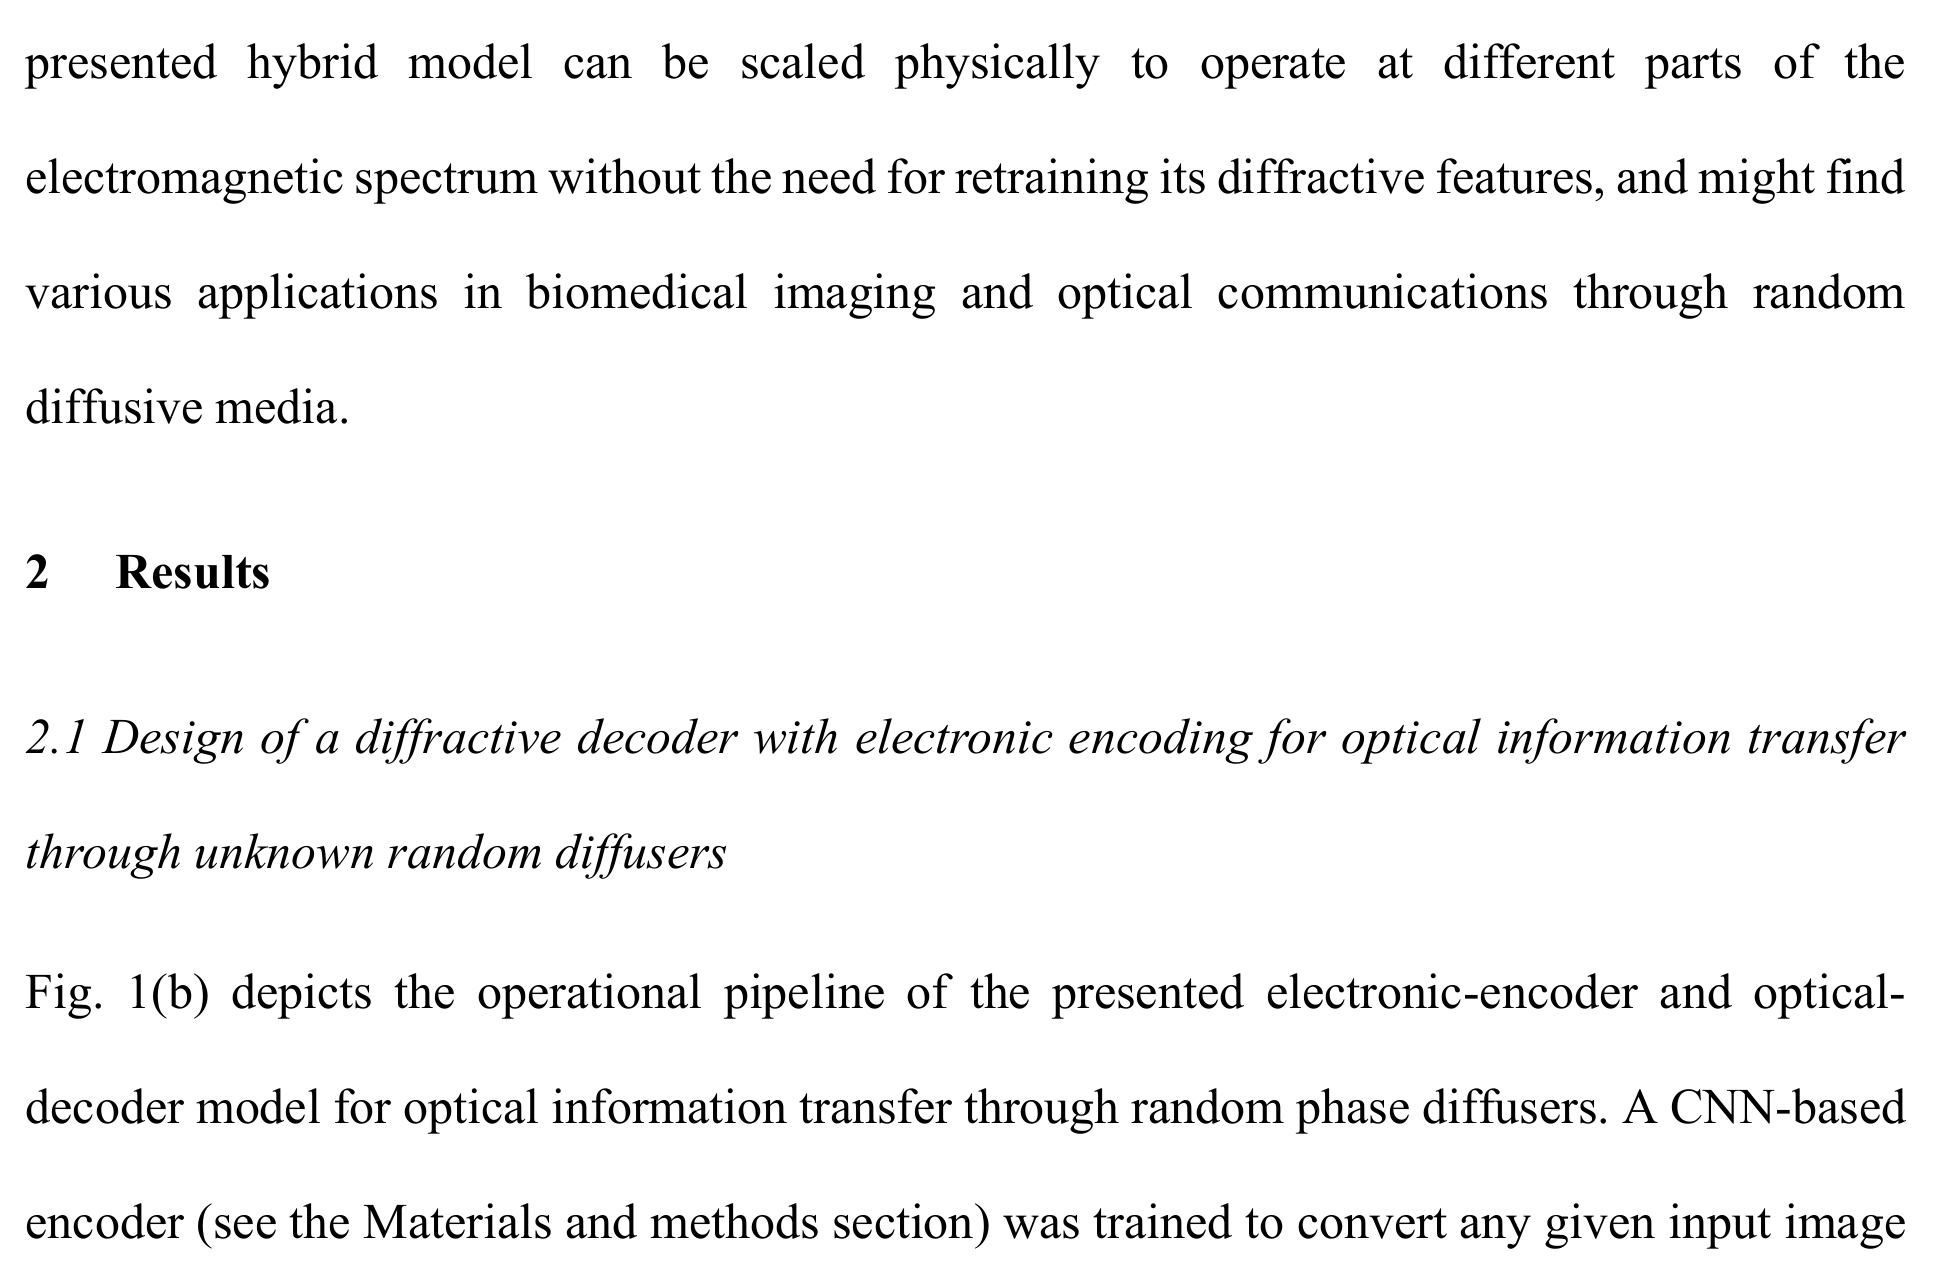
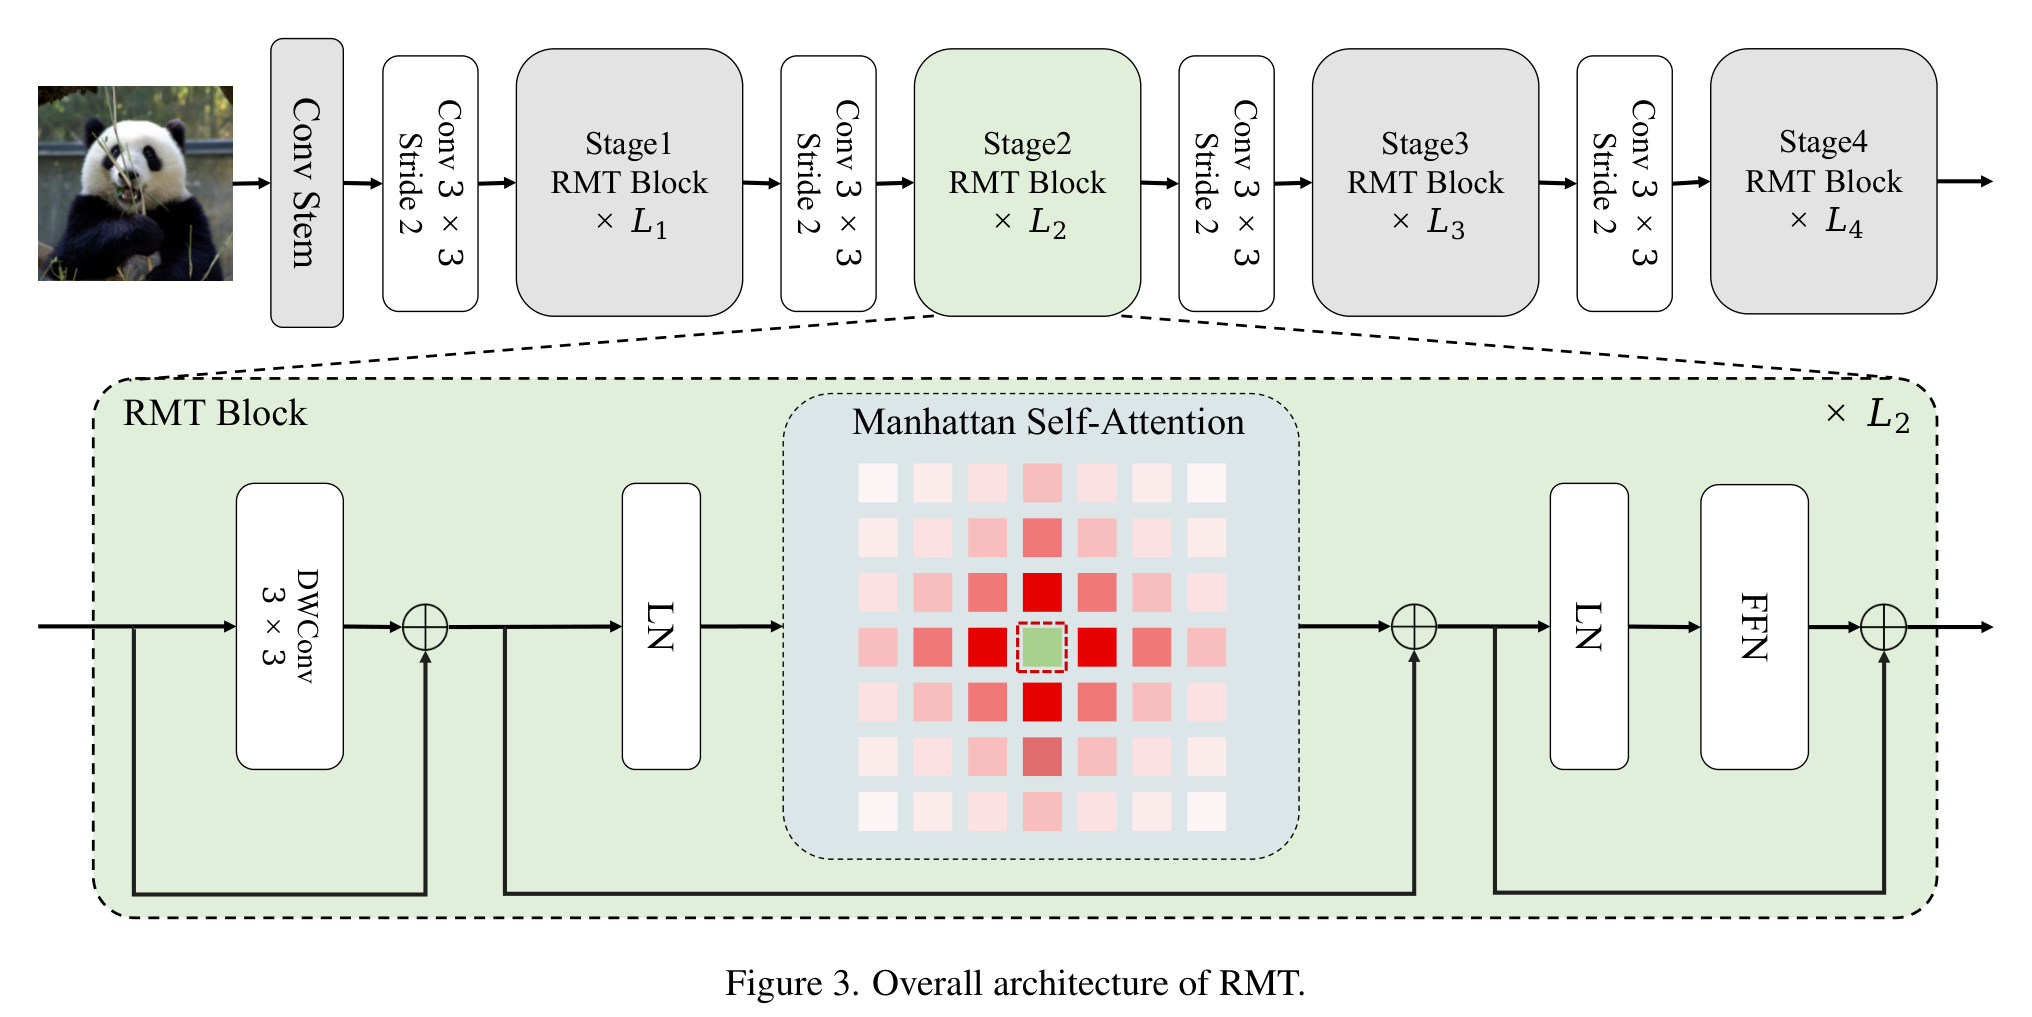
fix(figures): 004-starnet/006-rmt 架构图重抽（去正文/表格污染，列感知裁剪）
- 006-rmt: 队列 id 错(2303.17164 实为无关论文) → 正片 2309.11523 的 Figure 3；修正 venue=CVPR2024、readme/meta
- 004-starnet: Figure 3 重抽，去除右侧 Table 5 + 正文污染
- extract_fig.py: 增加分栏过滤（避免双栏论文把邻栏正文截进图里）

diff --git a/006-rmt/readme.md b/006-rmt/readme.md
@@ -1,127 +1,127 @@
 ## 一、论文出处
 
-- 论文全名：*Retentive Network: A Successor to Transformer for Large Language Models*（RMT 即 Retentive Network 的保留机制，本文讲解其可插拔的保留注意力子模块）
-- 会议/年份：arXiv 2023（CVPR 2023 收录的相关工作，本模块以 arXiv 2303.17164 为准）
-- 论文链接：https://arxiv.org/abs/2303.17164
+- 论文全名：*RMT: Retentive Networks Meet Vision Transformers*
+- 会议/年份：CVPR 2024
+- 论文链接：https://arxiv.org/abs/2309.11523
 - 官方代码：https://github.com/qhfan/RMT
 
-> 说明：RMT 的完整框架是面向序列建模的保留网络，但本合集只取其中可单独塞进 U-Net 的**保留注意力块（Retention Block）**来讲——它是一个带显式衰减的线性注意力子模块，能替换掉标准自注意力里的 softmax 注意力。
+> 说明：RMT 把 NLP 里 Retentive Network（RetNet）的「显式衰减」思想搬进视觉骨干，提出 **Manhattan Self-Attention（MaSA，曼哈顿自注意力）**——用与曼哈顿距离挂钩的二维空间衰减矩阵，给 ViT 补上一个显式的空间先验。本合集只取其中可插拔的 **RMT Block / MaSA** 来讲。
 
-## 二、模块图（截自论文原文）
+## 二、模块图（截自论文原文 Figure 3）
 
 ![RMT 结构图](figure.png)
 
-图注：保留注意力用「位置相关的指数衰减」替代 softmax 归一化，让每个 token 对历史信息的权重随距离单调衰减，从而在 O(N) 复杂度下保留长程记忆。
+图注：RMT 整体四阶段架构（上）；下为 RMT Block 展开——`DWConv 3×3 → LN → Manhattan Self-Attention → LN → FFN`，两条残差。MaSA 用一个按曼哈顿距离衰减的矩阵 `D` 调制注意力权重，让空间先验「显式」地进入模型。
 
 ## 三、核心思想与作用
 
-一句话总括：**保留注意力把 softmax 注意力换成「带显式衰减权重的线性注意力」，用可学习或固定的衰减系数给远距离 token 降权，既保住长程依赖，又把复杂度从 O(N²) 压到 O(N)。**
+一句话总括：**MaSA 在标准自注意力 `Softmax(QKᵀ)V` 外面乘上一个按「曼哈顿距离」指数衰减的矩阵 `D`，让离得近的 token 权重大、离得远的 token 权重指数级变小，从而给模型一个显式的二维空间先验——注意力算的还是全局的，但先验告诉它「谁更重要」。**
 
 拆解成几步：
 
-1. **去掉 softmax，改成线性形式**。标准注意力是 `softmax(QKᵀ)V`，必须先算 N×N 的注意力矩阵。保留注意力把它写成 `(QKᵀ ⊙ D)V`，其中 D 是一个只和相对位置有关的衰减矩阵，于是可以先用结合律算 `KᵀV`，再乘 Q，复杂度降到线性。
-2. **引入显式衰减 D**。D 的元素是 `γ^(i-j)`（i≥j），γ 是衰减因子（0<γ<1）。距离越远，权重越小，相当于给模型一个「记忆会随时间淡忘」的先验。
-3. **多头 + 分组归一化**。每个头有独立的 γ，输出前做一次 GroupNorm 稳定训练，避免线性注意力常见的数值漂移。
-4. **可插拔**。整个块只依赖输入张量，不依赖序列长度以外的假设，所以能直接替换 U-Net 里的自注意力或注意力门控。
+1. **从 RetNet 的「衰减」出发**。RetNet 在语言模型里用 `D_nm = γ^(n-m)`（n≥m，因果、一维）给历史 token 降权，带来显式的时序先验。RMT 把这个思想迁移到视觉。
+2. **从一维到二维：曼哈顿距离**。图像里每个 token 有 (x, y) 坐标，RMT 把衰减改成按 **曼哈顿距离** 计算：`D_nm = γ^(|xₙ-xₘ| + |yₙ-yₘ|)`。距离越远，衰减越狠，且横竖两个方向分别累积——这就是「Manhattan」的由来。
+3. **注意力公式**：`MaSA(X) = (Softmax(QKᵀ) ⊙ D) · V`。注意一个反直觉的点：RMT 试验后发现**去掉 RetNet 的门控（gating）、保留 Softmax** 反而在视觉上更好——所以 MaSA 并没有像很多线性注意力那样把 softmax 干掉，而是「Softmax 注意力 × 空间衰减」。
+4. **可分解（Decomposed MaSA）**。前三个阶段用分解版：把注意力得分与衰减矩阵沿横、纵两个轴分别拆开算（`Attn_H`、`Attn_W`），再接 `DWConv` 的局部上下文增强（LCE），在保留显式空间先验的同时把早期阶段的开销压下来；最后一个阶段用原始 MaSA。整个 Block 就是「DWConv → LN → MaSA → LN → FFN」。
 
 为什么好：
 
-- **线性复杂度**：医学图像里特征图展平后 token 数很大（如 64×64=4096），O(N²) 注意力显存吃不消，保留注意力能扛住。
-- **显式长程建模**：衰减是「软」的，不是硬截断，远处信息仍以较小权重参与，比局部窗口注意力更接近全局感受野。
-- **训练稳定**：GroupNorm + 固定/可学习 γ，比纯线性注意力好训，不容易梯度爆炸。
+- **显式空间先验**。普通 ViT 的自注意力天生没有任何空间归纳偏置，RMT 用衰减矩阵把「距离近的更相关」直接写进注意力，比纯数据学出来的位置关系更稳。
+- **保留 Softmax 的非线性**。不像线性注意力为了省算力丢掉 softmax，MaSA 保留 softmax，实验上精度更好。
+- **全局感受野 + 局部增强**。曼哈顿衰减负责长程的「软」加权，DWConv(LCE) 补局部纹理，粗细结合。
+- **即插即用**。Block 只依赖特征张量，可整块替换进现有 ViT / U-Net 的注意力位置。
 
 ## 四、在 U-Net 里的插入位置
 
-推荐放在**瓶颈层（bottleneck）**，其次可放在**解码器的高层**。
+推荐放在**瓶颈层（bottleneck）**，其次可放在**解码器的高层（低分辨率层）**。
 
 理由：
 
-- 瓶颈层特征图空间尺寸最小、通道数最多，展平后 token 数适中，保留注意力的线性优势最明显，且这里最需要全局上下文来补足卷积的局部性。
-- 解码器高层（靠近输出、分辨率较低的那几层）同样适合，能帮模型在恢复空间细节前先整合全局信息。
-- 不建议放在编码器浅层：那里分辨率高、token 多，线性注意力虽然省显存，但浅层更依赖局部纹理，全局衰减收益有限，反而增加计算。
+- 瓶颈层特征图最小、通道最多，全局建模需求最强，而这里正是把「显式空间先验」发挥出来的地方——医学图像里器官/病灶的空间关系是先验知识，用曼哈顿衰减天然贴合。
+- 解码器低分辨率层同样适合，能在恢复空间细节前先整合全局上下文。
+- 不建议放在编码器浅层：那里分辨率高、token 多，自注意力本身开销大（分解版可缓解），且浅层更依赖局部纹理。
 
 一句话：**瓶颈层放一个，解码器低分辨率层可选放，编码器浅层别放。**
 
 ## 五、复现代码（PyTorch，逐行中文注释）
 
-> 说明：以下是**简化教学版**，只保留保留注意力最核心的「衰减矩阵 + 线性注意力」两个组件，去掉了官方实现里的多头分组、跨头归一化等工程细节，方便理解结构。
+> 说明：以下是**简化教学版**，只保留 MaSA 最核心的「曼哈顿衰减矩阵 + 空间调制」两个组件，去掉了官方实现里的多头分组、分轴向分解、DWConv(LCE) 等工程细节，方便理解结构。
 
 ```python
 import torch
 import torch.nn as nn
-import torch.nn.functional as F
 
-class SimpleRetention(nn.Module):
-    """简化版保留注意力：带显式指数衰减的线性注意力"""
+class ManhattanSelfAttention(nn.Module):
+    """简化版曼哈顿自注意力：标准 softmax 注意力 × 曼哈顿距离衰减矩阵"""
     def __init__(self, dim, num_heads=4, gamma=0.9):
         super().__init__()
         self.dim = dim                      # 输入特征维度
         self.num_heads = num_heads          # 头数
-        self.head_dim = dim // num_heads    # 每个头的维度
-        self.gamma = gamma                  # 衰减因子，越接近 1 记忆越长
-        # Q、K、V 的线性投影
-        self.q_proj = nn.Linear(dim, dim)
-        self.k_proj = nn.Linear(dim, dim)
-        self.v_proj = nn.Linear(dim, dim)
+        self.head_dim = dim // num_heads    # 每头维度
+        self.gamma = gamma                  # 衰减因子，越接近 1 空间衰减越慢
+        self.q_proj = nn.Linear(dim, dim)   # Q 投影
+        self.k_proj = nn.Linear(dim, dim)   # K 投影
+        self.v_proj = nn.Linear(dim, dim)   # V 投影
         self.out_proj = nn.Linear(dim, dim) # 输出投影
-        self.norm = nn.GroupNorm(1, dim)    # 输出归一化，稳定训练
+        self.scale = self.head_dim ** -0.5  # softmax 缩放
 
-    def forward(self, x):
-        # x: (B, N, C)，N 是 token 数（如 H*W），C 是通道数
+    def forward(self, x, hw=None):
+        # x: (B, N, C)，N = H*W；hw=(H, W) 用于计算 token 的 (x, y) 坐标
         B, N, C = x.shape
         H = self.num_heads
         D = self.head_dim
-        # 投影并拆成多头: (B, H, N, D)
+        if hw is None:
+            Hh = int(N ** 0.5); hw = (Hh, Hh)
+        h, w = hw
+        assert h * w == N, 'token 数需等于 H*W'
+
+        # 多头投影: (B, H, N, D)
         q = self.q_proj(x).view(B, N, H, D).transpose(1, 2)
         k = self.k_proj(x).view(B, N, H, D).transpose(1, 2)
         v = self.v_proj(x).view(B, N, H, D).transpose(1, 2)
 
-        # 构造衰减矩阵 D_mat: (N, N)，D_mat[i, j] = gamma^(i-j) if i>=j else 0
-        idx = torch.arange(N, device=x.device)
-        # 相对距离 i-j，下三角为正
-        rel = idx[:, None] - idx[None, :]          # (N, N)
-        decay = torch.where(rel >= 0,
-                            self.gamma ** rel.clamp(min=0).float(),
-                            torch.zeros_like(rel, dtype=torch.float))
-        decay = decay.to(x.dtype)                  # (N, N)
+        # 标准自注意力得分: (B, H, N, N)
+        attn = (q @ k.transpose(-2, -1)) * self.scale
+        attn = attn.softmax(dim=-1)
 
-        # 线性注意力核心：先算 K^T V，再乘 Q，避免 N×N 的 QK^T
-        # 但为了显式衰减，这里用衰减加权的 K^T V 形式
-        # 简化写法：直接对 K 做衰减加权后再算注意力
-        # 权重 w[i,j] = decay[i,j]，对 j 做归一化
-        w = decay / (decay.sum(dim=-1, keepdim=True) + 1e-6)  # (N, N)
-        # 注意力输出: (B, H, N, D) = w @ v
-        out = torch.einsum('ij,bhjd->bhid', w, v)  # (B, H, N, D)
+        # 构造曼哈顿距离衰减矩阵 D_nm = gamma^(|xn-xm| + |yn-ym|)
+        ys = torch.arange(h, device=x.device).repeat_interleave(w)  # (N,)
+        xs = torch.arange(w, device=x.device).repeat(h)             # (N,)
+        dist = (ys[:, None] - ys[None, :]).abs() + (xs[:, None] - xs[None, :]).abs()  # (N, N)
+        decay = (self.gamma ** dist.float()).to(x.dtype)            # (N, N)
 
-        # 合并多头并投影
+        # 用空间衰减调制注意力权重，再做归一化
+        attn = attn * decay                      # (B, H, N, N) * (N, N)
+        attn = attn / (attn.sum(dim=-1, keepdim=True) + 1e-6)
+
+        # 加权聚合: (B, H, N, D)
+        out = attn @ v
+
+        # 合并多头 + 输出投影
         out = out.transpose(1, 2).reshape(B, N, C)
-        out = self.out_proj(out)
-        # 残差 + 归一化
-        out = self.norm(out.transpose(1, 2)).transpose(1, 2)
-        return out + x
+        return self.out_proj(out)
 ```
 
-> 注：上面为了可读性用了 `einsum` 显式构造 N×N 权重，实际部署时可用论文里的「分块递归」写法把复杂度真正压到 O(N)。教学版重点是理解**衰减矩阵**和**线性聚合**这两个概念。
+> 注：官方实现把上面的 `dist` 拆成横、纵两个一维衰减矩阵分别作用（Decomposed MaSA），并加了一个 `DWConv` 的局部上下文增强（LCE），早期阶段用它降开销。教学版把两步合成一步显式计算，重点是理解**「softmax 注意力 × 曼哈顿距离衰减」**这个核心设计。
 
 ## 六、插入示例（几行塞进你的网络）
 
 ```python
-# 假设你在 U-Net 瓶颈层有一个特征图 x: (B, C, H, W)
 from torch import nn
 
 class BottleneckWithRMT(nn.Module):
     def __init__(self, channels):
         super().__init__()
-        self.rmt = SimpleRetention(dim=channels, num_heads=4, gamma=0.9)
+        self.norm = nn.LayerNorm(channels)
+        self.masa = ManhattanSelfAttention(dim=channels, num_heads=4, gamma=0.9)
 
     def forward(self, x):
         B, C, H, W = x.shape
         # 展平成 token 序列: (B, H*W, C)
         tokens = x.flatten(2).transpose(1, 2)
-        tokens = self.rmt(tokens)                 # 保留注意力
+        tokens = tokens + self.masa(self.norm(tokens), hw=(H, W))  # 残差
         # 还原回特征图
-        out = tokens.transpose(1, 2).view(B, C, H, W)
-        return out
+        return tokens.transpose(1, 2).view(B, C, H, W)
 
 # 用法：替换掉 U-Net 瓶颈层的普通卷积或自注意力
 # bottleneck = BottleneckWithRMT(512)
@@ -129,12 +129,11 @@ class BottleneckWithRMT(nn.Module):
 
 ## 七、实测经验与注意点
 
-- **衰减因子 γ 是关键超参**：γ 越接近 1，记忆越长但远距离噪声也越多；医学图像里建议从 0.9 附近试起，分割任务可略小（0.8~0.9），分类可略大。
-- **token 数别太大**：瓶颈层展平后 token 数控制在 1k~4k 比较舒服，超过 8k 即使线性注意力也会因中间张量吃显存，建议先下采样。
-- **GroupNorm 别省**：线性注意力没有 softmax 的数值归一化，去掉 GroupNorm 后训练容易发散，这是官方实现里明确保留的组件。
-- **和卷积互补**：保留注意力擅长全局，卷积擅长局部，瓶颈层用「卷积 + 保留注意力」并联或串联，比单独替换效果更稳。
+- **γ（衰减因子）是关键超参**：越接近 1，空间衰减越慢、感受野越大但远距离噪声也越多；建议从 0.9 附近试起，分割任务可略小（0.8~0.9）。
+- **token 数别太大**：原始 MaSA 是 O(N²) 的（毕竟保留了 softmax），瓶颈层展平后 token 数控制在 1k~4k 比较舒服；token 再多就上分解版 MaSA。
+- **不要盲目去掉 Softmax**：RMT 的实验显示，视觉任务上保留 softmax 反而比换成 RetNet 的门控更好——这点和很多「线性注意力」教程的直觉相反，别照搬。
+- **和卷积互补**：曼哈顿衰减负责长程加权，DWConv(LCE) 负责局部，俩一起用比只换注意力更稳。
 - **别在浅层硬塞**：编码器浅层分辨率高、token 多，收益低开销大，优先放瓶颈和解码器低分辨率层。
-- **复杂度**：教学版是 O(N²) 的显式写法，工程版用分块递归可做到 O(N)，部署时注意区分。
 
 ## 八、完整工程
 
